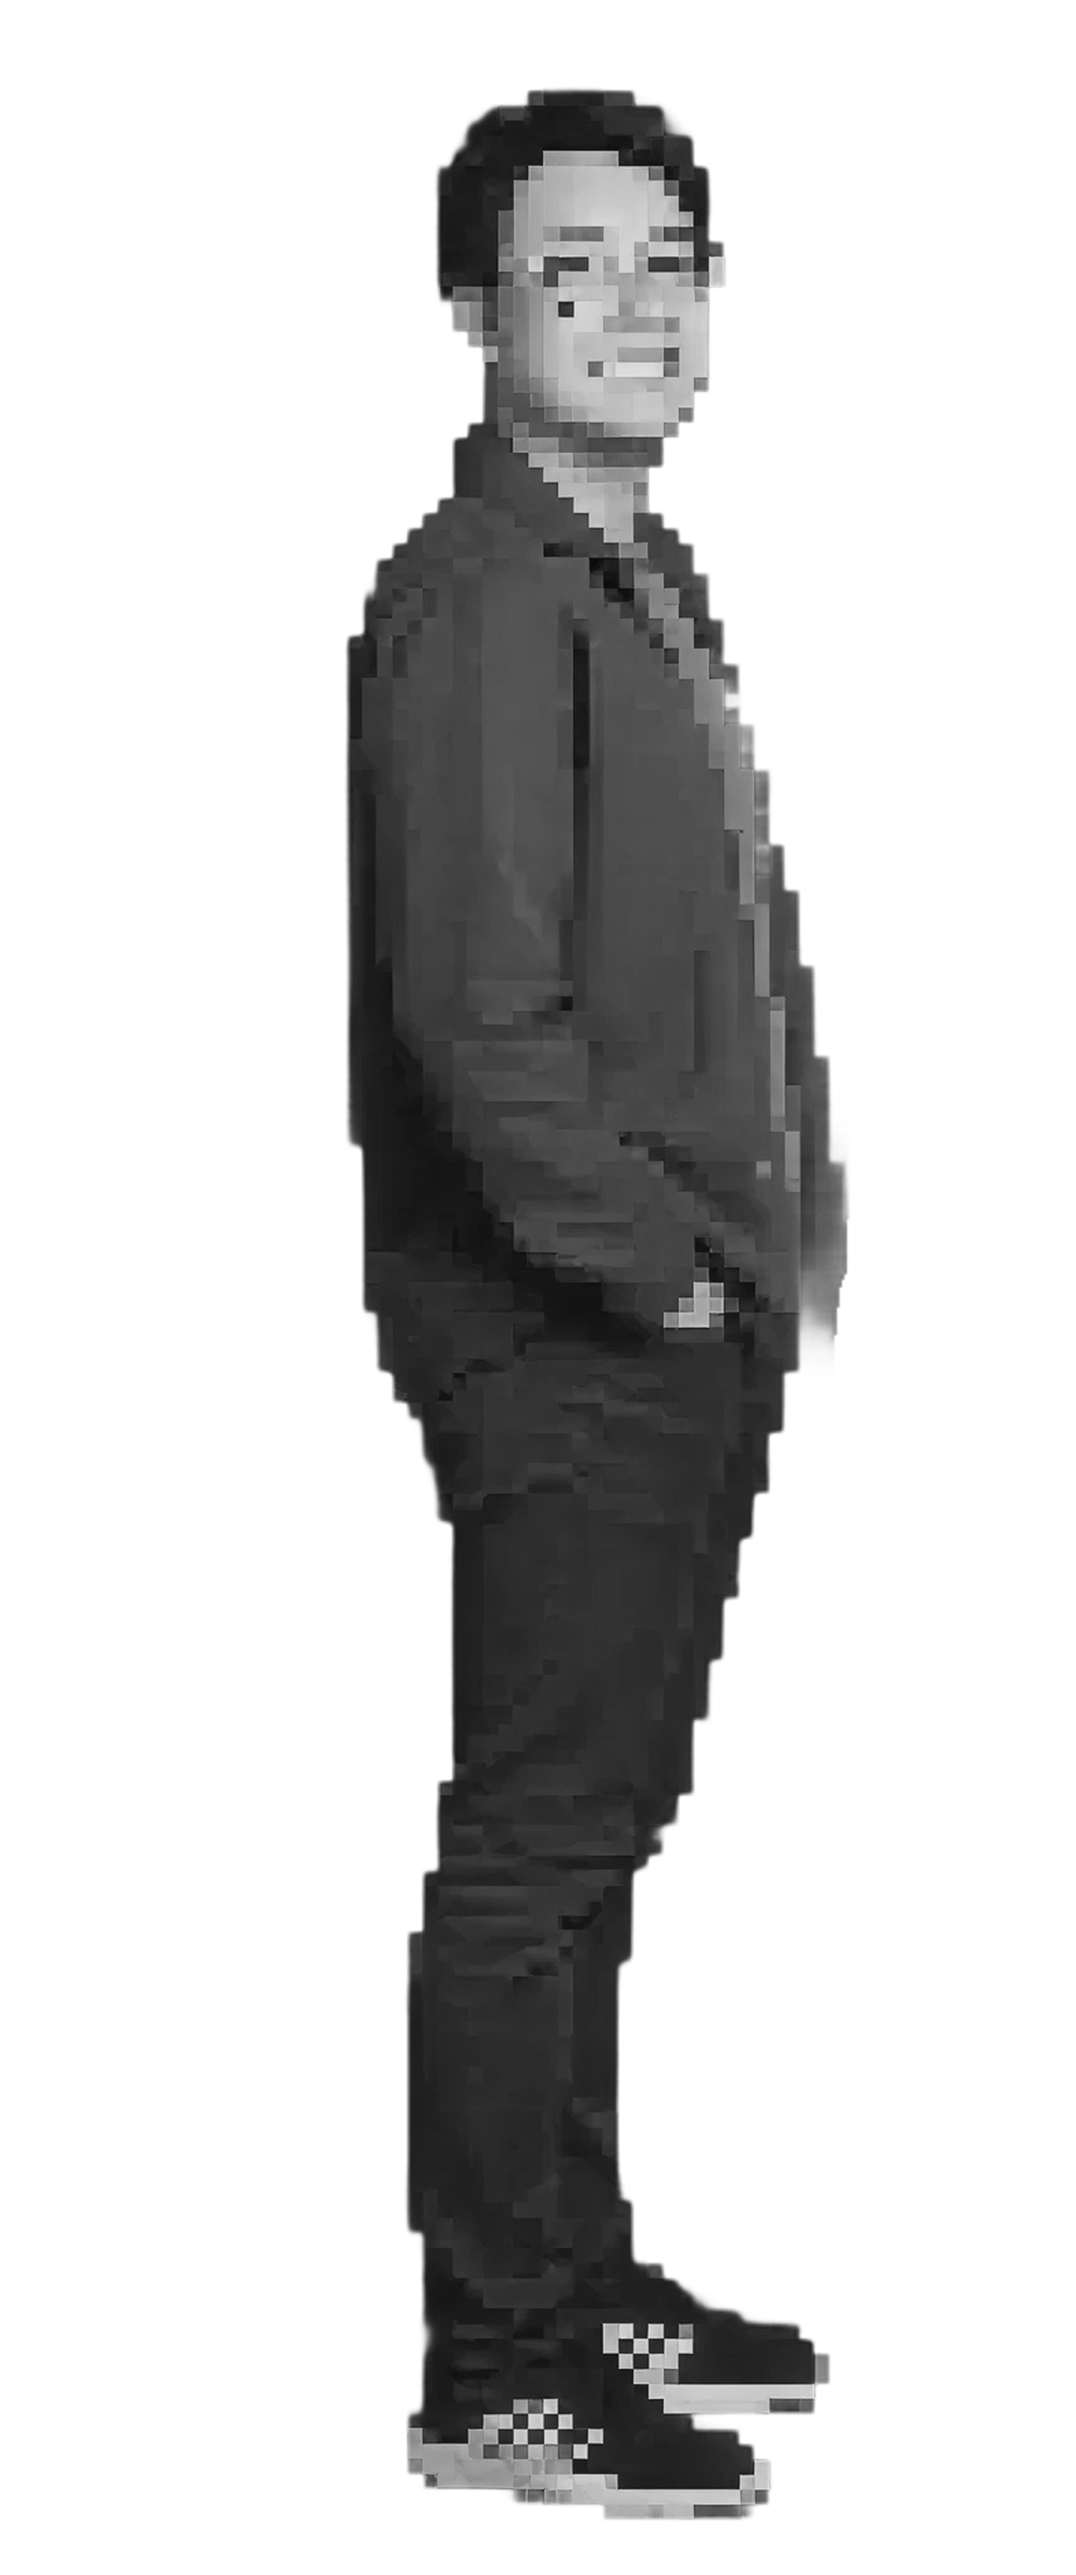
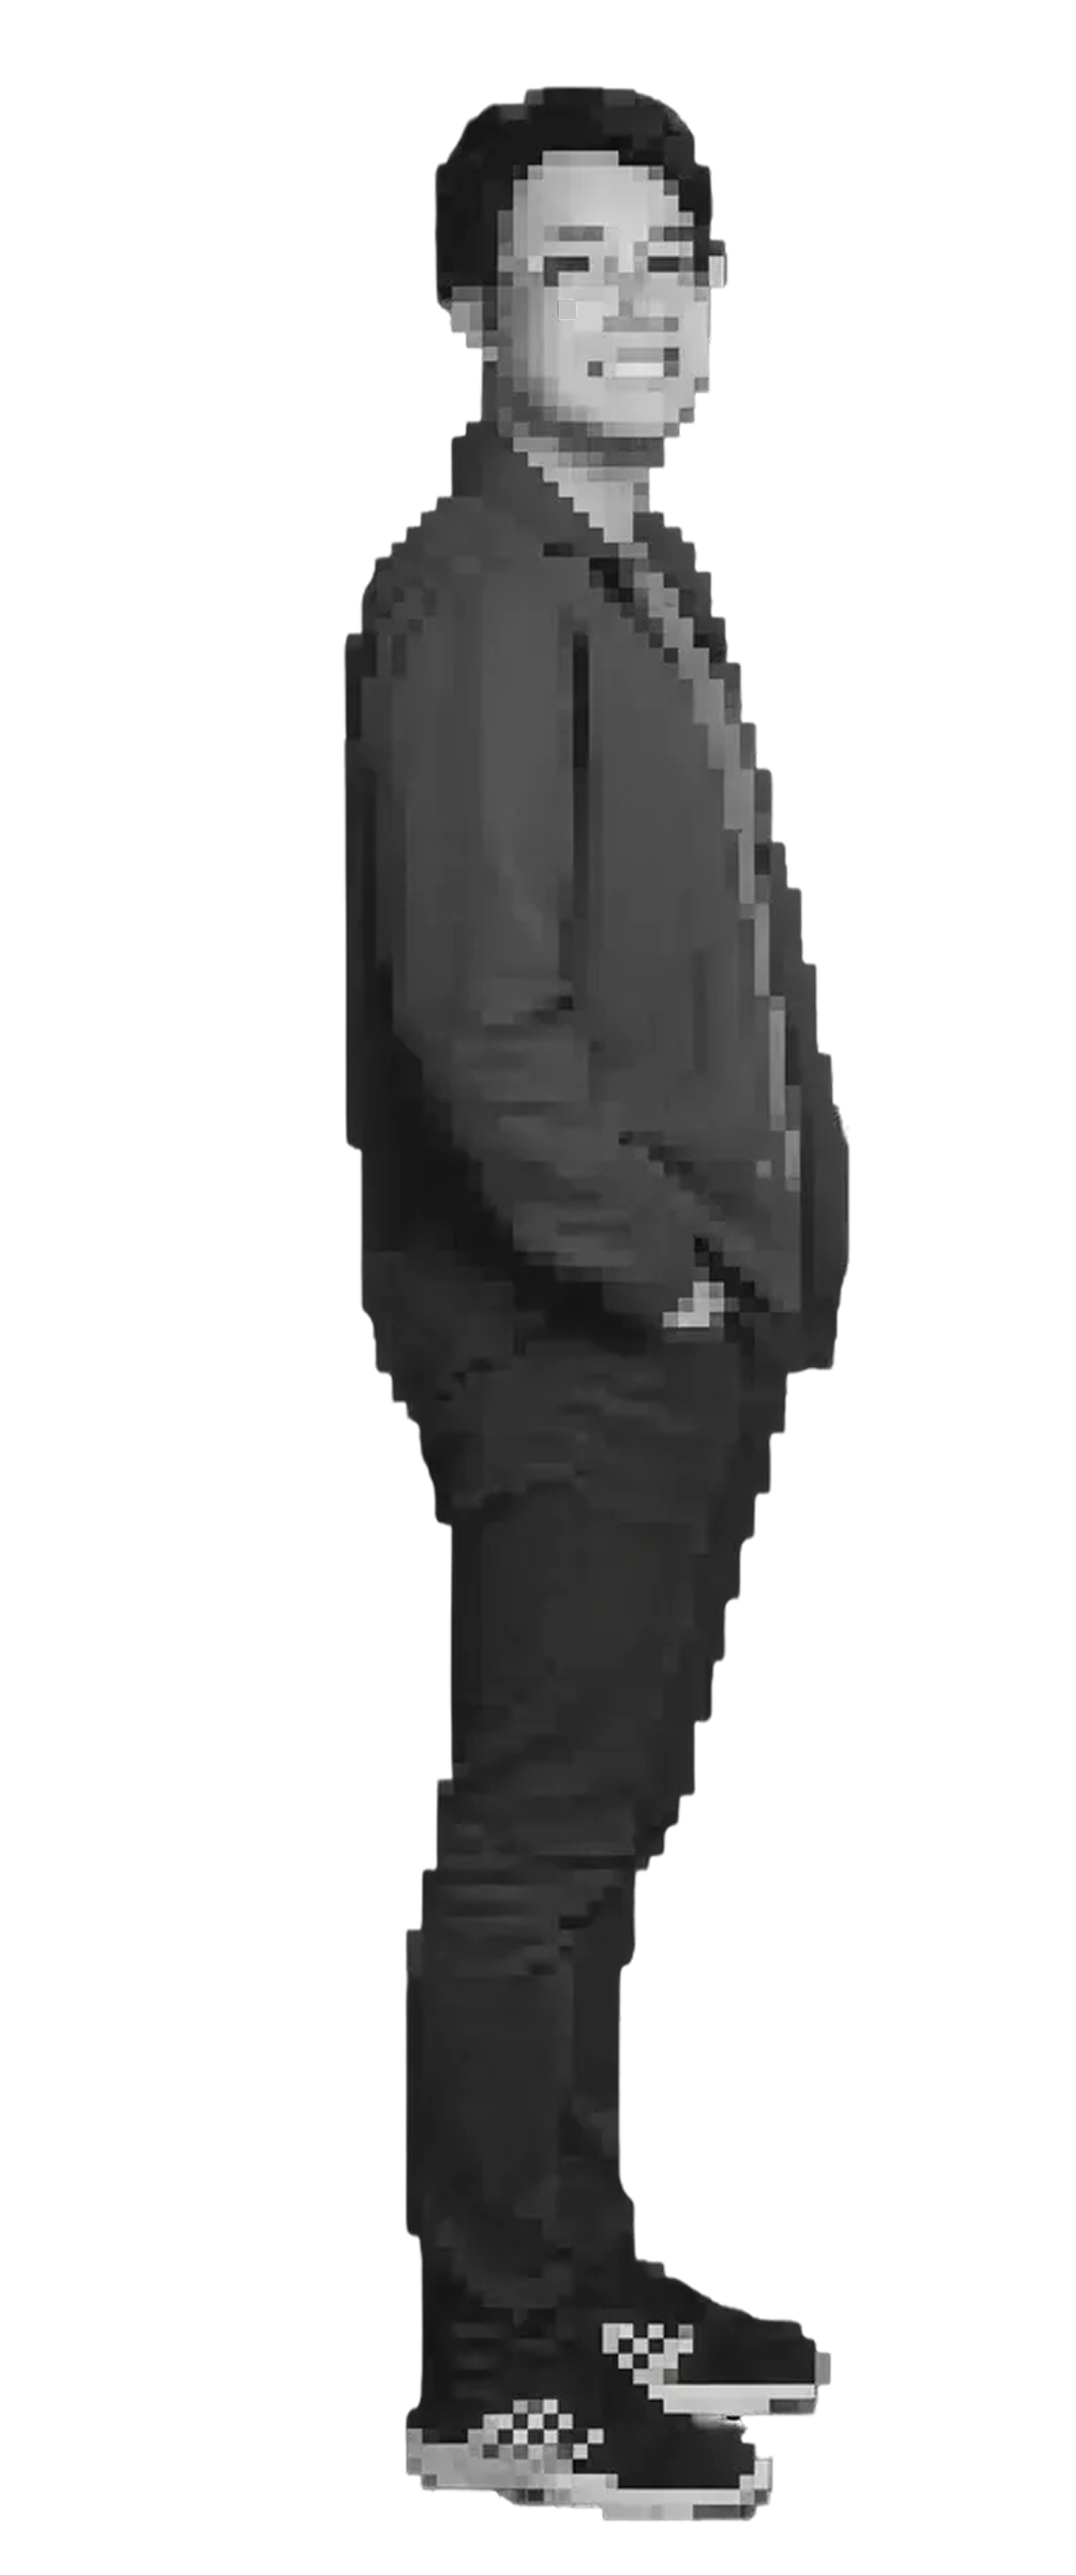
Fixed Routes issues

diff --git a/portfolio/src/pages/ArticleDetail.tsx b/portfolio/src/pages/ArticleDetail.tsx
@@ -16,9 +16,11 @@ const ArticleDetail: React.FC = () => {
   const { theme, toggleTheme } = useTheme();
   const { items } = useI18nFeed('articles');
   const [isLangDropdownOpen, setIsLangDropdownOpen] = useState(false);
+  const [isLogoHovered, setIsLogoHovered] = useState(false);
   const langDropdownRef = useRef<HTMLDivElement>(null);
   const menuHoverHandleRef = useRef<PlaybackHandle | null>(null);
   const menuClickHandleRef = useRef<PlaybackHandle | null>(null);
+  const logoHoverHandleRef = useRef<PlaybackHandle | null>(null);
 
   // 語言選項
   const languageOptions = [
@@ -132,6 +134,27 @@ const ArticleDetail: React.FC = () => {
     };
   }, []);
 
+  // Logo wrapper 樣式（參考 Home 的 project detail）
+  const logoWrapperStyle: React.CSSProperties = {
+    cursor: 'pointer',
+    transform: 'translateX(-10px)'
+  };
+
+  // Logo hover 處理
+  const handleLogoHover = useCallback(async () => {
+    setIsLogoHovered(true);
+    try {
+      logoHoverHandleRef.current?.stop();
+      logoHoverHandleRef.current = await audioManager.play(hoverSoundUrl, { volume: 0.4 });
+    } catch (err) {
+      console.warn('Logo hover sound play failed:', err);
+    }
+  }, []);
+
+  const handleLogoLeave = useCallback(() => {
+    setIsLogoHovered(false);
+  }, []);
+
   // 返回 Articles 列表
   const handleBackToArticles = useCallback(async () => {
     try {
@@ -149,8 +172,11 @@ const ArticleDetail: React.FC = () => {
       <div className="article-detail">
         <Header
           onLogoClick={handleBackToArticles}
+          onLogoMouseEnter={handleLogoHover}
+          onLogoMouseLeave={handleLogoLeave}
           logoType="back"
-          logoAnimated={true}
+          logoAnimated={isLogoHovered}
+          logoWrapperStyle={logoWrapperStyle}
           menuItems={['work', 'articles', 'about']}
           activeMenuItem="articles"
           t={t}
@@ -183,8 +209,11 @@ const ArticleDetail: React.FC = () => {
     <div className="article-detail">
       <Header
         onLogoClick={handleBackToArticles}
+        onLogoMouseEnter={handleLogoHover}
+        onLogoMouseLeave={handleLogoLeave}
         logoType="back"
-        logoAnimated={true}
+        logoAnimated={isLogoHovered}
+        logoWrapperStyle={logoWrapperStyle}
         menuItems={['work', 'articles', 'about']}
         activeMenuItem="articles"
         t={t}

diff --git a/portfolio/src/pages/Articles.tsx b/portfolio/src/pages/Articles.tsx
@@ -17,11 +17,9 @@ const Articles: React.FC = () => {
   const { theme, toggleTheme } = useTheme();
   const { items } = useI18nFeed('articles');
   const [isLangDropdownOpen, setIsLangDropdownOpen] = useState(false);
-  const [hoveredCardId, setHoveredCardId] = useState<number | null>(null);
   const langDropdownRef = useRef<HTMLDivElement>(null);
   const menuHoverHandleRef = useRef<PlaybackHandle | null>(null);
   const menuClickHandleRef = useRef<PlaybackHandle | null>(null);
-  const cardHoverHandleRef = useRef<PlaybackHandle | null>(null);
 
   // 語言選項
   const languageOptions = [
@@ -114,21 +112,6 @@ const Articles: React.FC = () => {
     setIsLangDropdownOpen(false);
   }, [i18n]);
 
-  // 卡片 hover 處理
-  const handleCardHover = useCallback(async (cardId: number) => {
-    setHoveredCardId(cardId);
-    try {
-      cardHoverHandleRef.current?.stop();
-      cardHoverHandleRef.current = await audioManager.play(hoverSoundUrl, { volume: 0.2 });
-    } catch (err) {
-      console.warn('Card hover sound play failed:', err);
-    }
-  }, []);
-
-  const handleCardLeave = useCallback(() => {
-    setHoveredCardId(null);
-  }, []);
-
   // 卡片點擊處理
   const handleCardClick = useCallback(async (articleId: number) => {
     try {
@@ -196,8 +179,6 @@ const Articles: React.FC = () => {
                 key={article.id}
                 className="article-card"
                 onClick={() => handleCardClick(article.id)}
-                onMouseEnter={() => handleCardHover(article.id)}
-                onMouseLeave={handleCardLeave}
                 style={{
                   ['--stagger-index' as any]: index,
                 }}
@@ -223,7 +204,6 @@ const Articles: React.FC = () => {
                     category: article.category
                   }}
                   use2D={true}
-                  enableHoverSound={false}
                 />
               </div>
             );

diff --git a/portfolio/src/pages/About.tsx b/portfolio/src/pages/About.tsx
@@ -1077,7 +1077,7 @@ const About: React.FC = () => {
                   width={'250px'}
                   autoPlay={true}
                   enableParticles={true}
-                  frameDuration={1000}
+                  frameDuration={400}
                 />
               </div>
             </div>
